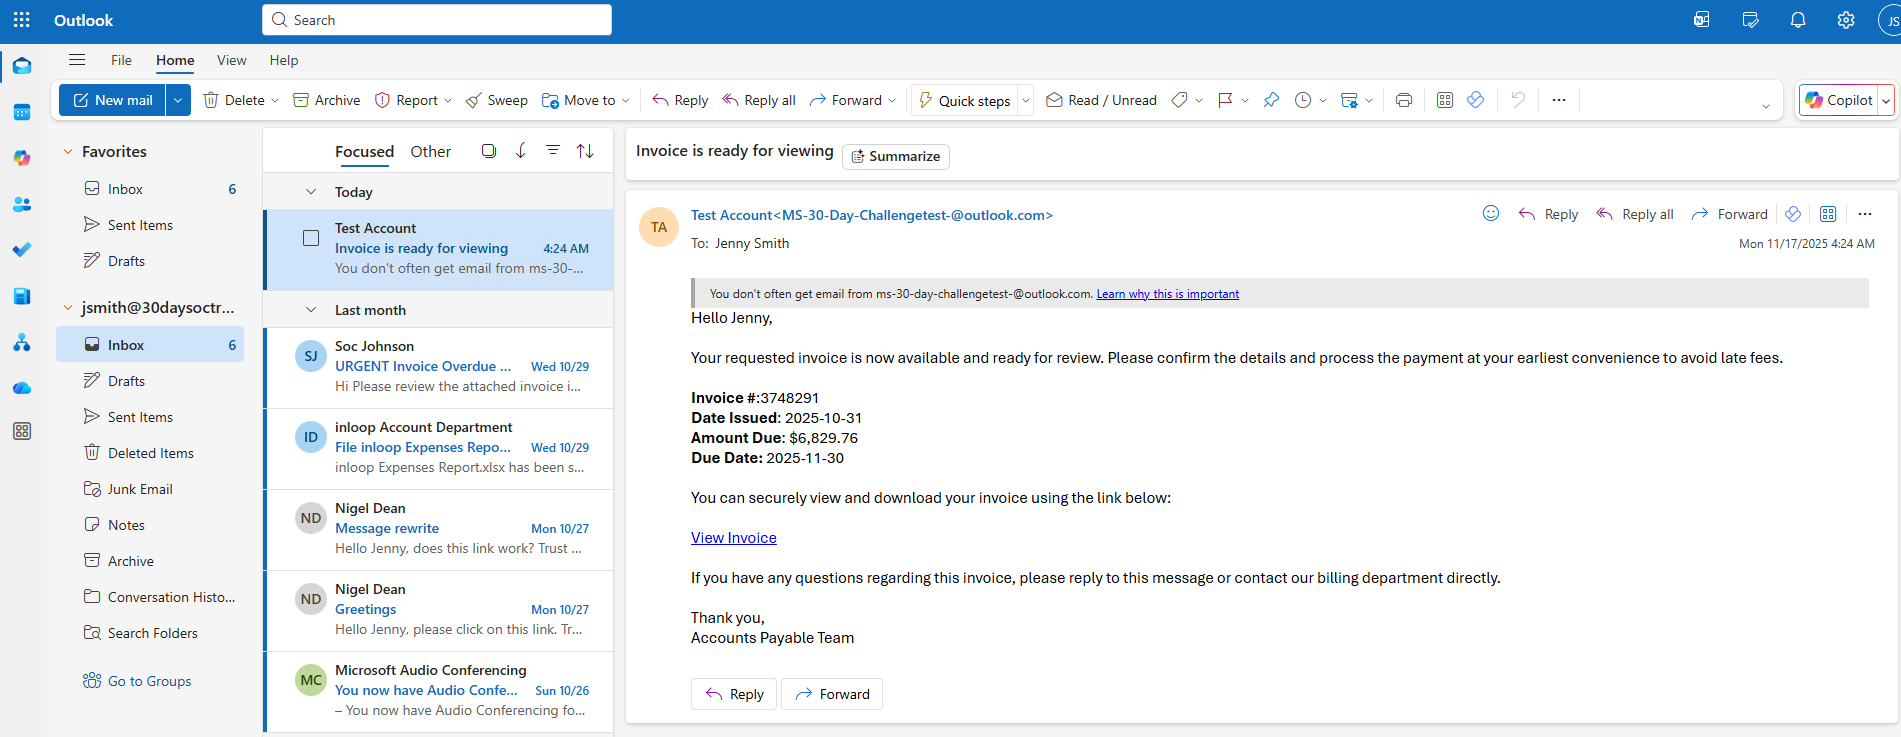
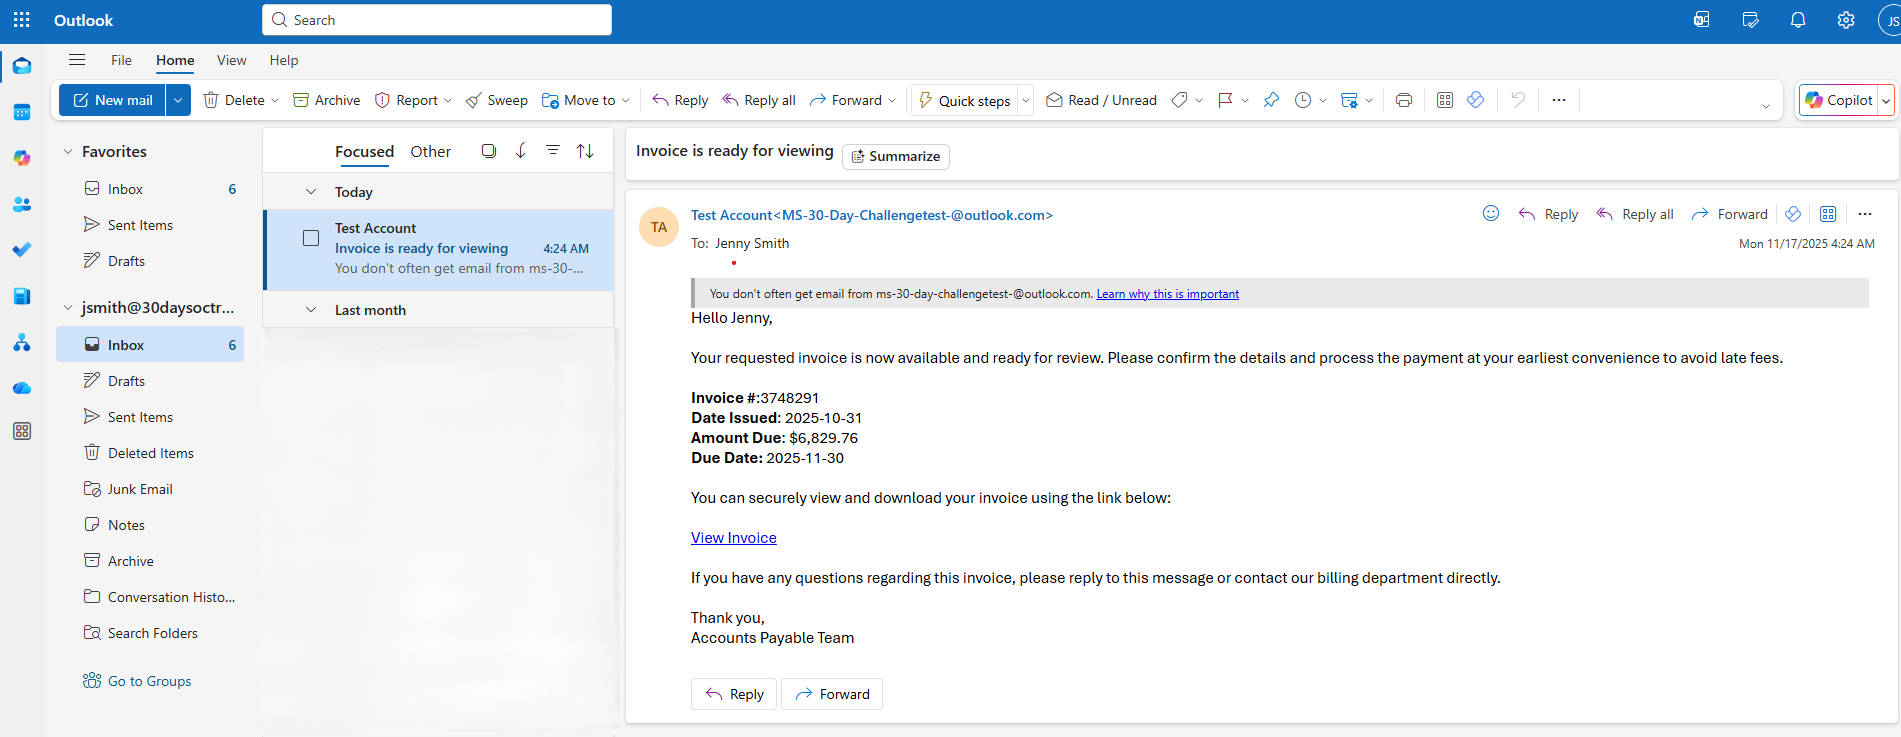
Updated a redacted email

diff --git a/README.md b/README.md
@@ -493,7 +493,7 @@ Defender appears to have successfully blocked or remediated all malicious action
 
 ### 3.1 Email – Phishing Attempt (Initial Vector)
 
-![Phishing Email](Day29-MiniProject-IncidentInvestigation/screenshots/phishing-email-sent.png)
+![Phishing Email](Day29-MiniProject-IncidentInvestigation/screenshots/phishing-email-sent1.png)
 *Figure 3 — Phishing email providing the likely initial credential exposure point.*
 
 - User received a phishing email containing a suspicious link
